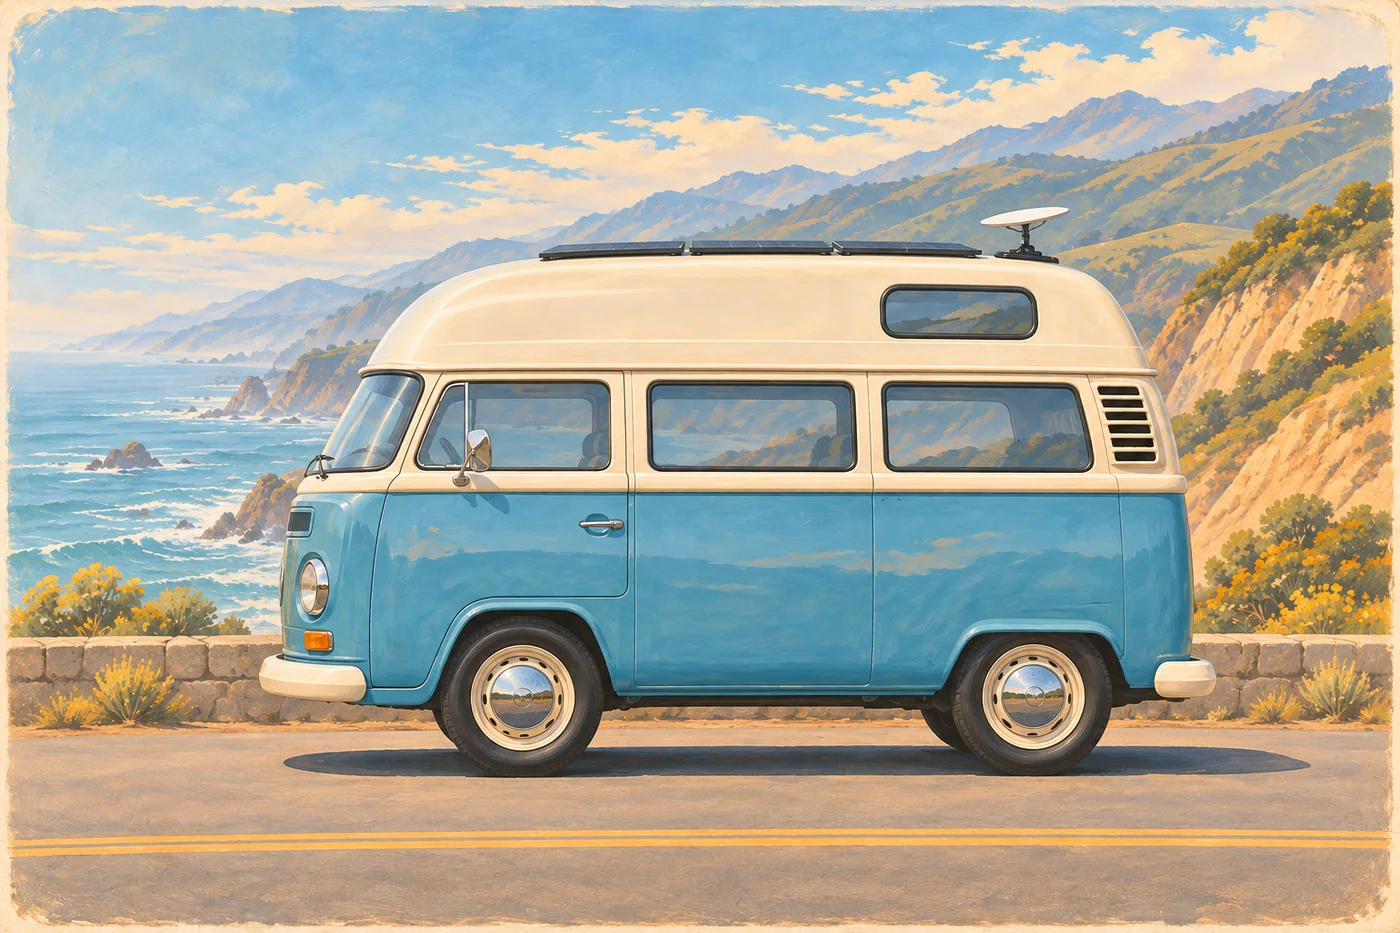
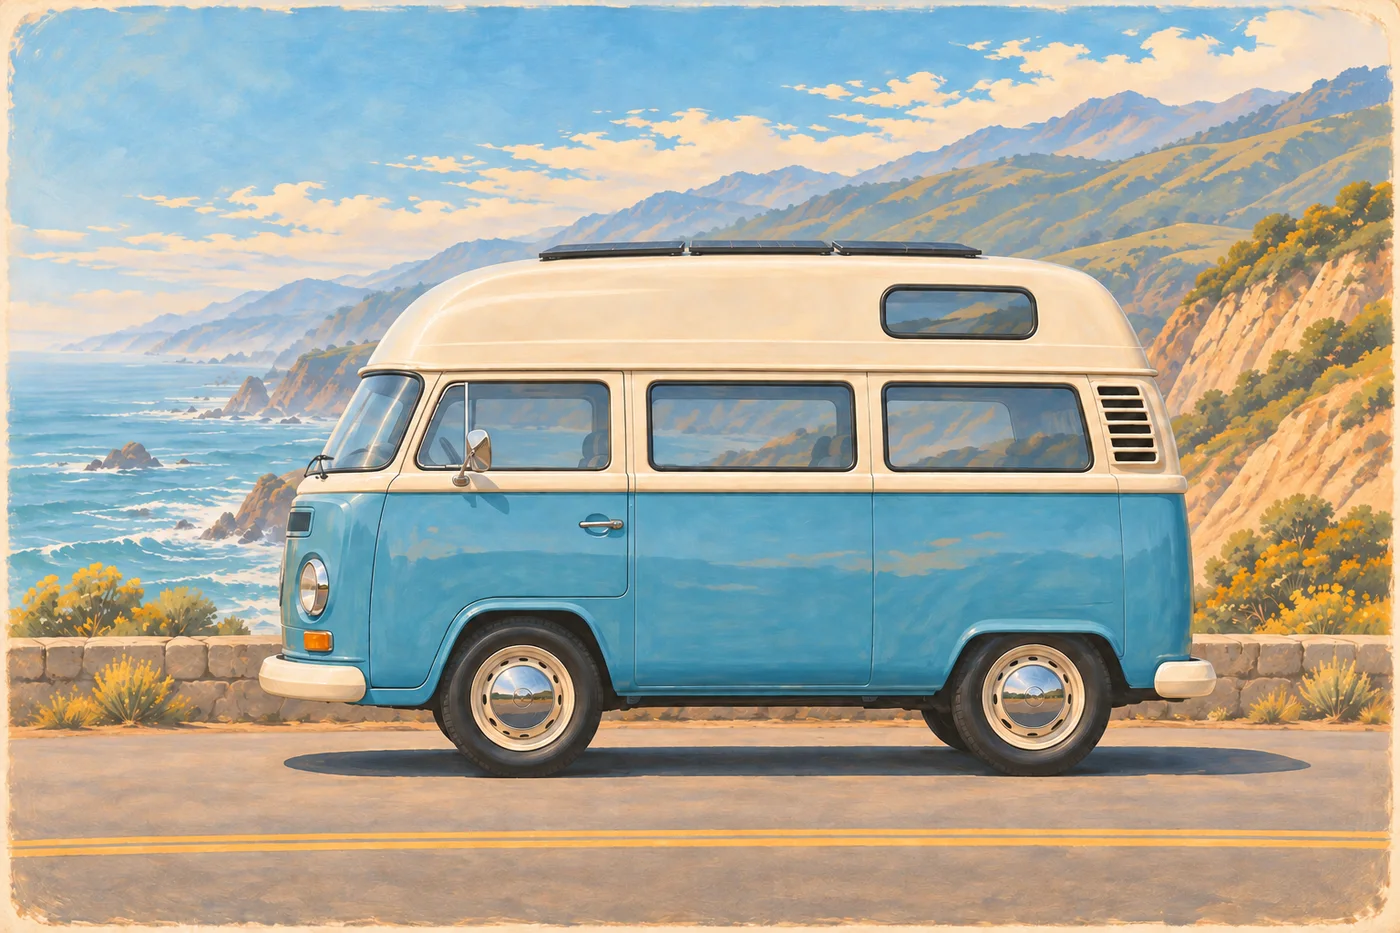
Turn Key: no Starlink dish on the roof art

diff --git a/index.html b/index.html
@@ -260,8 +260,8 @@ footer .ig{color:var(--cyan);font-weight:800;text-decoration:none;letter-spacing
       <p class="lede">Complete buses, built by us and ready to go.</p>
     </div>
     <div class="tk">
-      <article class="tkc rise"><img src="img/tk-t2-hightop.webp" alt="Painted side view of a blue and cream T2 high-top bus with solar and a satellite antenna on the roof" loading="lazy"><h3 class="d">T2 High-top</h3><p>Bay window bus with a tall high-top roof.</p></article>
-      <article class="tkc rise"><img src="img/tk-t3-2wd.webp" alt="Painted side view of a light blue T3 Westfalia with solar and a satellite antenna on the roof" loading="lazy"><h3 class="d">T3 2WD</h3><p>Vanagon Westfalia with rear-wheel drive.</p></article>
+      <article class="tkc rise"><img src="img/tk-t2-hightop.webp" alt="Painted side view of a blue and cream T2 high-top bus with solar on the roof" loading="lazy"><h3 class="d">T2 High-top</h3><p>Bay window bus with a tall high-top roof.</p></article>
+      <article class="tkc rise"><img src="img/tk-t3-2wd.webp" alt="Painted side view of a light blue T3 Westfalia with solar on the roof" loading="lazy"><h3 class="d">T3 2WD</h3><p>Vanagon Westfalia with rear-wheel drive.</p></article>
       <article class="tkc rise"><img src="img/tk-t3-awd.webp" alt="Painted side view of a lifted T3 all-wheel drive Westfalia on a desert track" loading="lazy"><h3 class="d">T3 AWD</h3><p>Lifted all-wheel drive Westfalia.</p></article>
     </div>
     <div class="tkspec rise">
